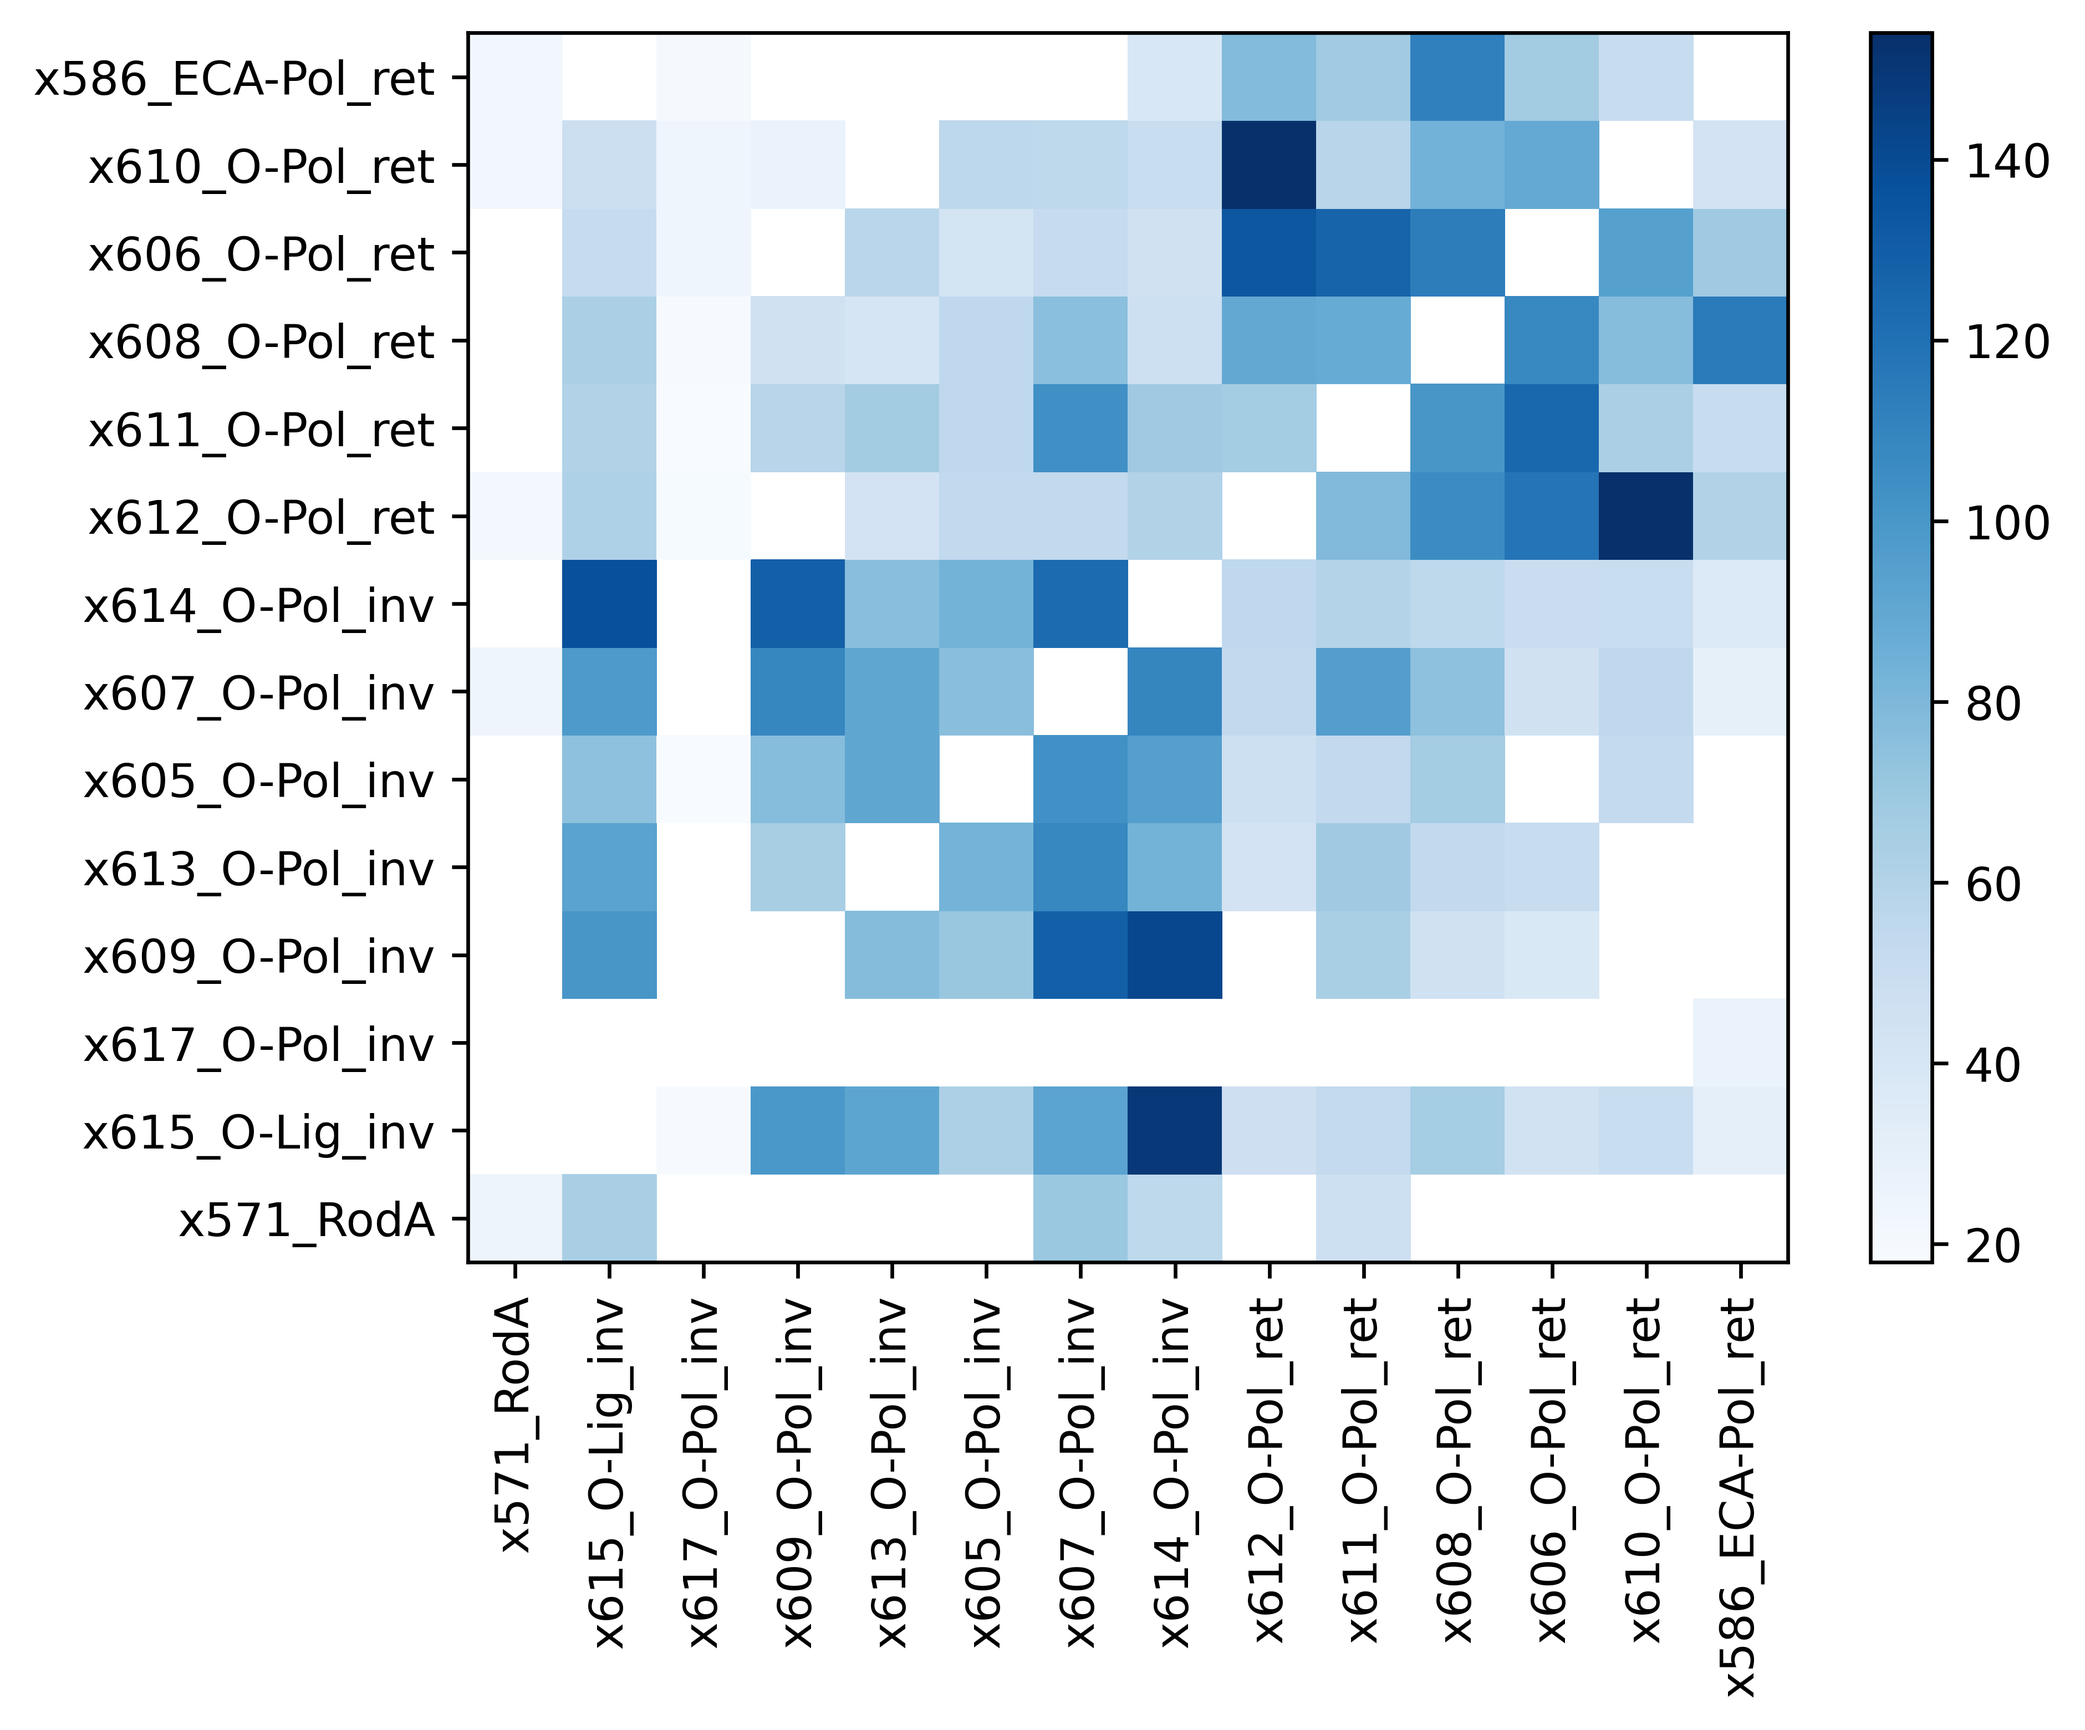
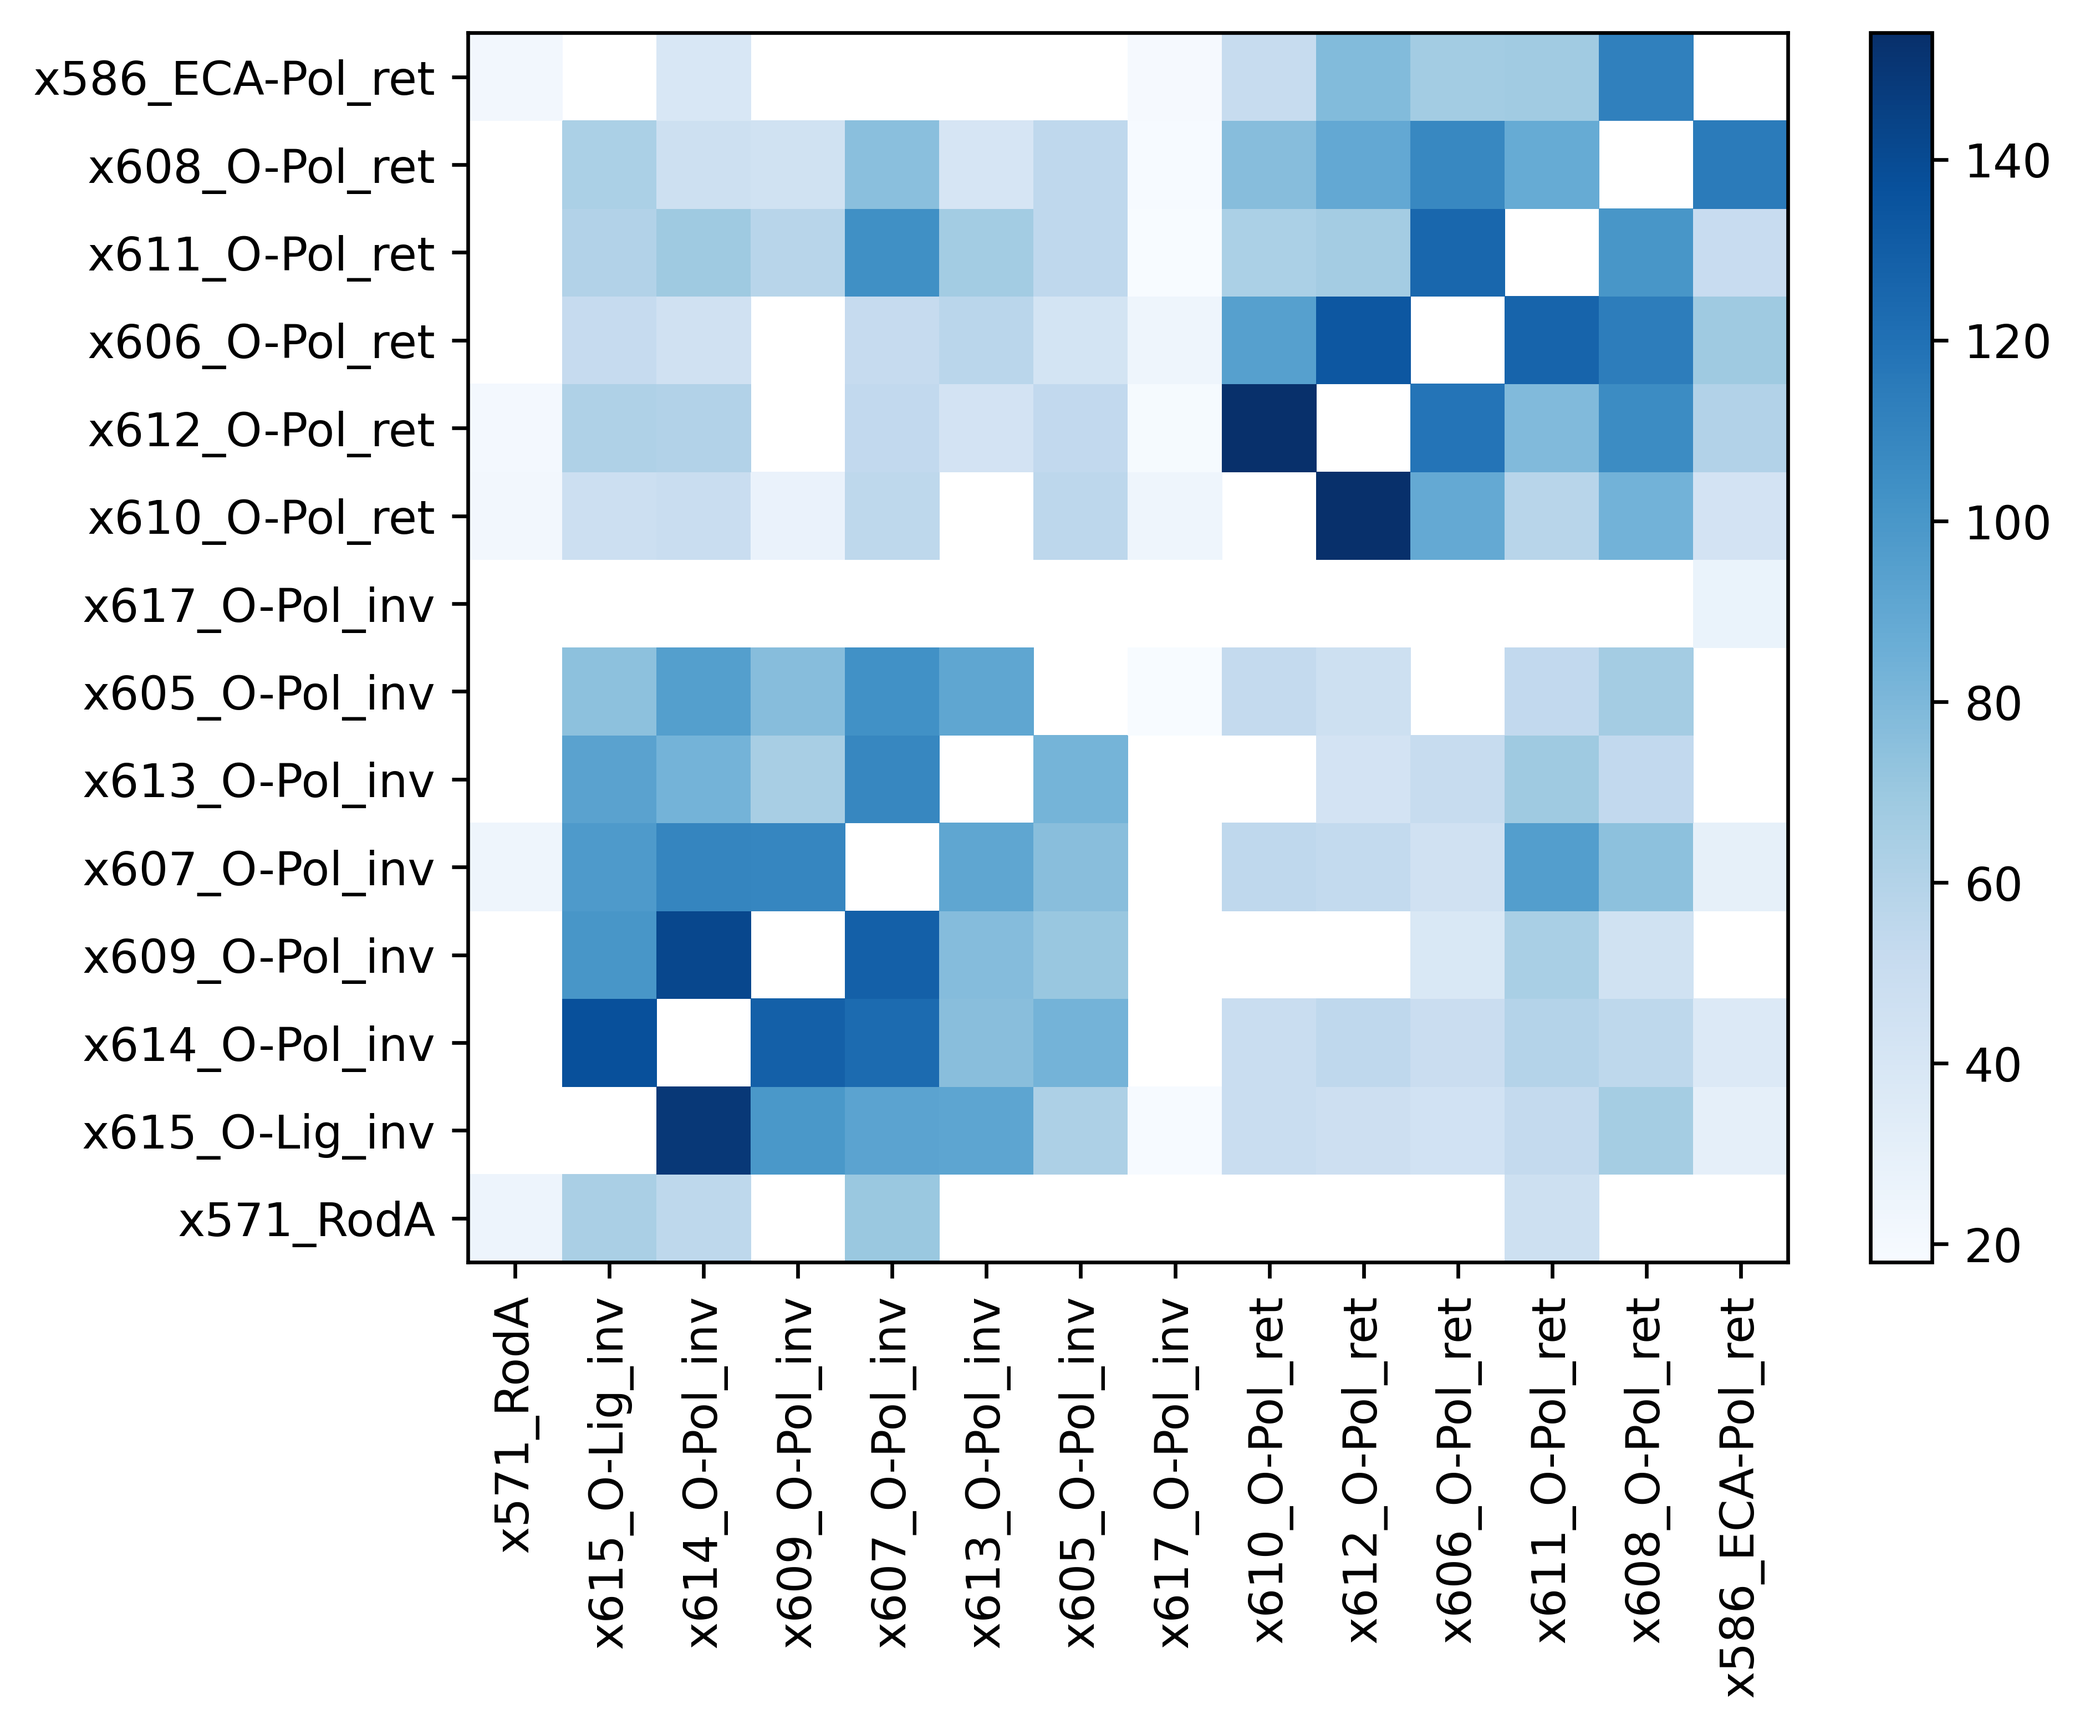
changed order in heatmap

diff --git a/src/compare-cazy-families/make-heatmap.py b/src/compare-cazy-families/make-heatmap.py
@@ -28,8 +28,8 @@ for filename in hhr_filenames:
 
 df = pd.DataFrame.from_dict(mydict)
 
-order = ['x571_RodA', 'x615_O-Lig_inv', 'x617_O-Pol_inv', 'x609_O-Pol_inv', 'x613_O-Pol_inv', 'x605_O-Pol_inv', 'x607_O-Pol_inv', 'x614_O-Pol_inv',\
-    'x612_O-Pol_ret', 'x611_O-Pol_ret', 'x608_O-Pol_ret', 'x606_O-Pol_ret', 'x610_O-Pol_ret', 'x586_ECA-Pol_ret']
+order = ['x571_RodA', 'x615_O-Lig_inv', 'x614_O-Pol_inv', 'x609_O-Pol_inv', 'x607_O-Pol_inv', 'x613_O-Pol_inv', 'x605_O-Pol_inv', 'x617_O-Pol_inv',\
+    'x610_O-Pol_ret', 'x612_O-Pol_ret', 'x606_O-Pol_ret', 'x611_O-Pol_ret', 'x608_O-Pol_ret', 'x586_ECA-Pol_ret']
 df = df.loc[order, order]
 
 fig, axis = plt.subplots()
